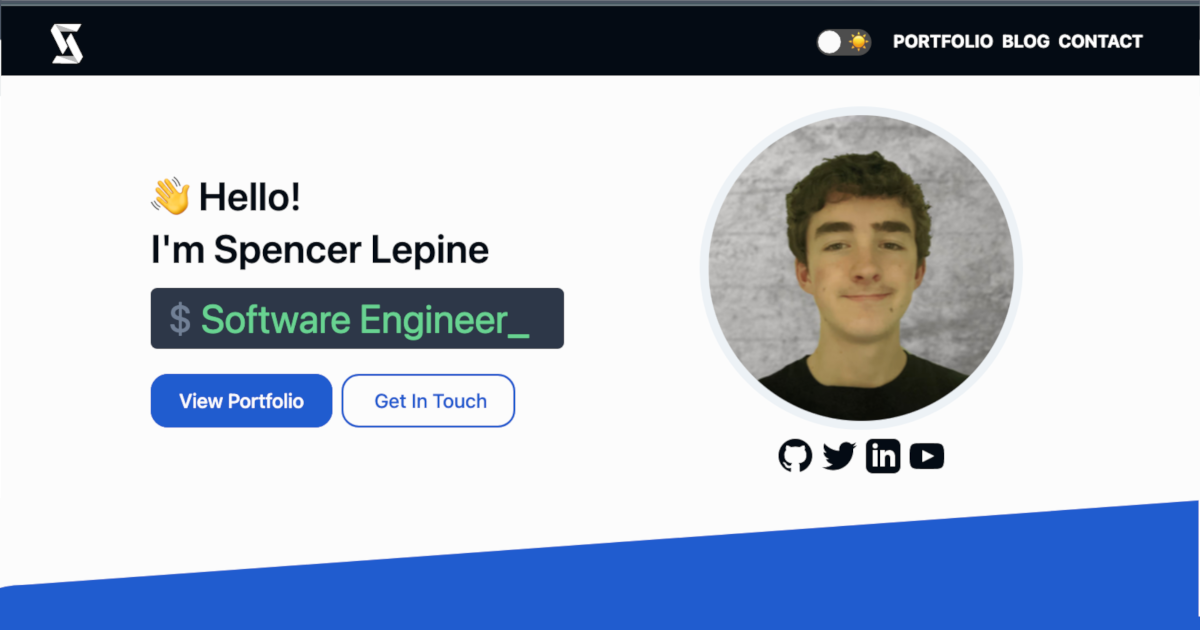
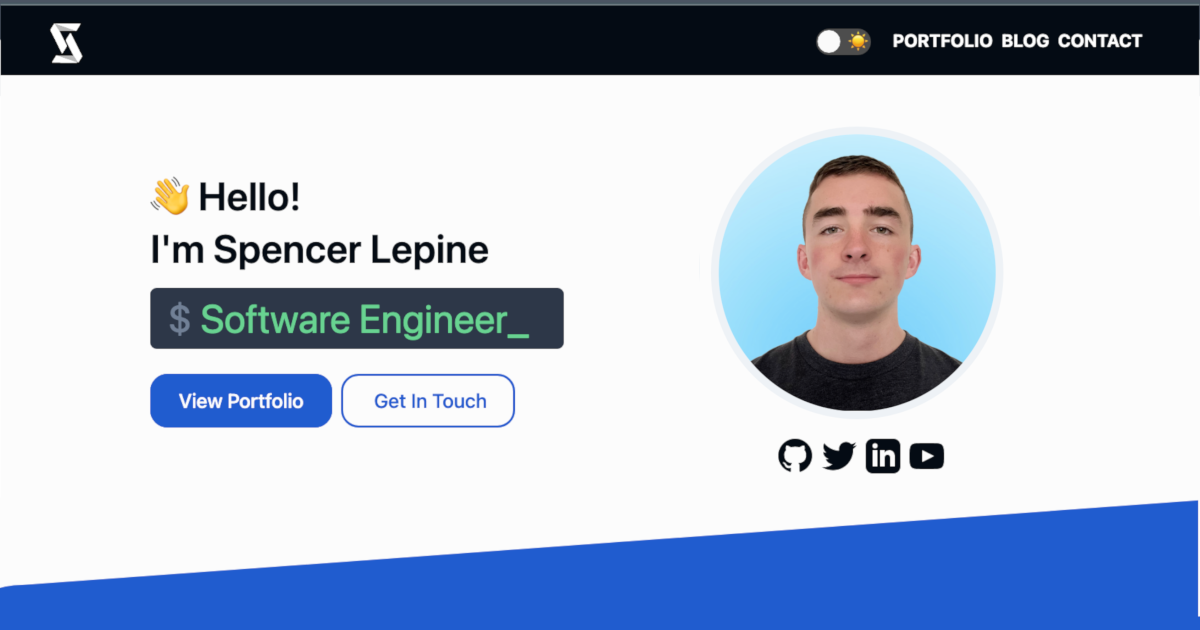
update profile picture

diff --git a/src/components/sections/welcome.js b/src/components/sections/welcome.js
@@ -24,7 +24,7 @@ const Welcome = () => (
           <Suspense fallback={<div>Loading...</div>}>
             <div className="mx-auto w-fit max-w-xs my-8">
               <StaticImage
-                src="../../assets/images/me.jpg"
+                src="../../assets/images/me.png"
                 width={280}
                 className="flex justify-center max-w-full h-auto m-1 rounded-full border-8 border-solid border-gray-200"
                 quality={90}
